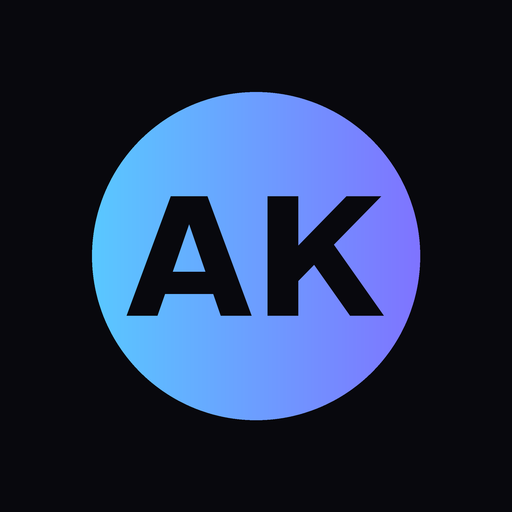
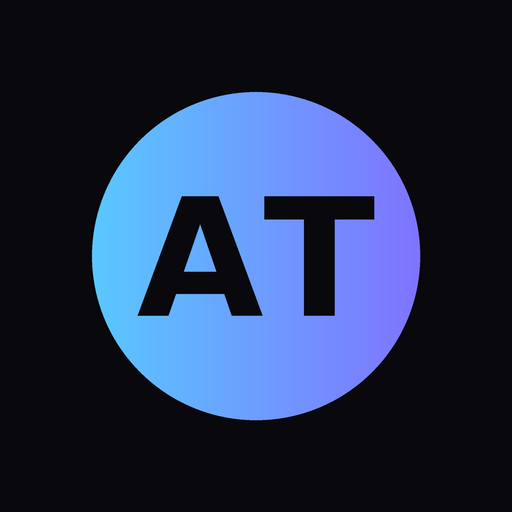
Антитромботическая терапия: новое название и значок
Claude-Session: https://claude.ai/code/session_01F9aSP2xV2apFBKUNDiB4bJ

Changed region(s): [[0.25, 0.375, 0.75, 0.625], [0.3125, 0.5625, 0.3438, 0.625]]

diff --git a/oac-m3v8kp.html b/oac-m3v8kp.html
@@ -3,7 +3,7 @@
 <head>
 <meta charset="UTF-8">
 <meta name="viewport" content="width=device-width, initial-scale=1.0, viewport-fit=cover">
-<title>Антикоагулянты после инсульта</title>
+<title>Антитромботическая терапия</title>
 <meta name="theme-color" content="#08080D">
 <meta name="robots" content="noindex, nofollow">
 <link rel="manifest" href="oac-m3v8kp.webmanifest">
@@ -11,7 +11,7 @@
 <link rel="apple-touch-icon" href="oac-apple-icon.png">
 <meta name="mobile-web-app-capable" content="yes">
 <meta name="apple-mobile-web-app-capable" content="yes">
-<meta name="apple-mobile-web-app-title" content="Антикоагулянты">
+<meta name="apple-mobile-web-app-title" content="Антитромботики">
 <meta name="apple-mobile-web-app-status-bar-style" content="black">
 <meta name="author" content="Василий Дорогов">
 <meta name="copyright" content="© 2026 Василий Дорогов">
@@ -80,7 +80,7 @@ table.oh{width:100%; border-collapse:collapse; font-size:14px;} table.oh td{padd
 </head>
 <body>
 <div class="app">
-  <header><h1>Антикоагулянты после инсульта</h1><span>автор — В.&nbsp;Дорогов</span></header>
+  <header><h1>Антитромботическая терапия</h1><span>автор — В.&nbsp;Дорогов</span></header>
 
 <section id="s1" class="on">
   <div class="card">
@@ -417,7 +417,7 @@ document.querySelector('nav.tabs').onclick=e=>{const b=e.target.closest('button'
 document.querySelectorAll('.stepnav').forEach(n=>{const s=n.closest('section').id;const p=n.querySelector('.prev'),x=n.querySelector('.next');if(p)p.onclick=()=>{const o=order();go(o[o.indexOf(s)-1])};if(x)x.onclick=()=>{const o=order();go(o[(o.indexOf(s)+1)%3])}});
 $('copy').onclick=async()=>{try{await navigator.clipboard.writeText($('sum').textContent);$('copy').textContent='Скопировано'}catch(e){$('copy').textContent='Не удалось — выделите текст'}setTimeout(()=>$('copy').textContent='Скопировать',1800)};
 $('reset').onclick=()=>{const b=$('reset');if(b.dataset.c!=='1'){b.dataset.c='1';b.textContent='Стереть всё? Нажмите ещё раз';setTimeout(()=>{b.dataset.c='';b.textContent='Новый пациент'},2500);return}const mail=ST.mail||DEFMAIL;ST={mode:ST.mode||'st',dloc:'ec',dpr:'is',dsz:'s',apm:'minor',cvc:'tr',ev:'is',sz:'s',ht:'0',ichc:'deep',op:'0',mail};save();location.reload()};
-$('send').onclick=()=>{const to=$('mail').value.trim();if(!to){$('mail').focus();return}const t=ST.tag||'',sub='Антикоагулянты после инсульта'+(t?' — '+t:'')+' — '+new Date().toLocaleDateString('ru-RU');
+$('send').onclick=()=>{const to=$('mail').value.trim();if(!to){$('mail').focus();return}const t=ST.tag||'',sub='Антитромботическая терапия'+(t?' — '+t:'')+' — '+new Date().toLocaleDateString('ru-RU');
  location.href='mailto:'+encodeURIComponent(to).replace('%40','@')+'?subject='+encodeURIComponent(sub)+'&body='+encodeURIComponent($('sum').textContent.replace(/\n/g,'\r\n'))};
 if(ST.mode==='dis')go('s4');else render();
 if('serviceWorker' in navigator && (location.protocol==='https:'||location.hostname==='localhost')) navigator.serviceWorker.register('/oac-m3v8kp-sw.js',{scope:'/oac-m3v8kp'}).catch(()=>{});

diff --git a/oac-m3v8kp-sw.js b/oac-m3v8kp-sw.js
@@ -1,4 +1,4 @@
-const CACHE='oac-m3v8kp-v17';
+const CACHE='oac-m3v8kp-v18';
 const CORE=['/oac-m3v8kp.html','/oac-m3v8kp.webmanifest','/oac-icon-192.png','/oac-icon-512.png','/oac-apple-icon.png'];
 self.addEventListener('install',e=>{e.waitUntil(caches.open(CACHE).then(c=>c.addAll(CORE)).then(()=>self.skipWaiting()));});
 self.addEventListener('activate',e=>{e.waitUntil(caches.keys().then(k=>Promise.all(k.filter(x=>x.startsWith('oac-m3v8kp-')&&x!==CACHE).map(x=>caches.delete(x)))).then(()=>self.clients.claim()));});
